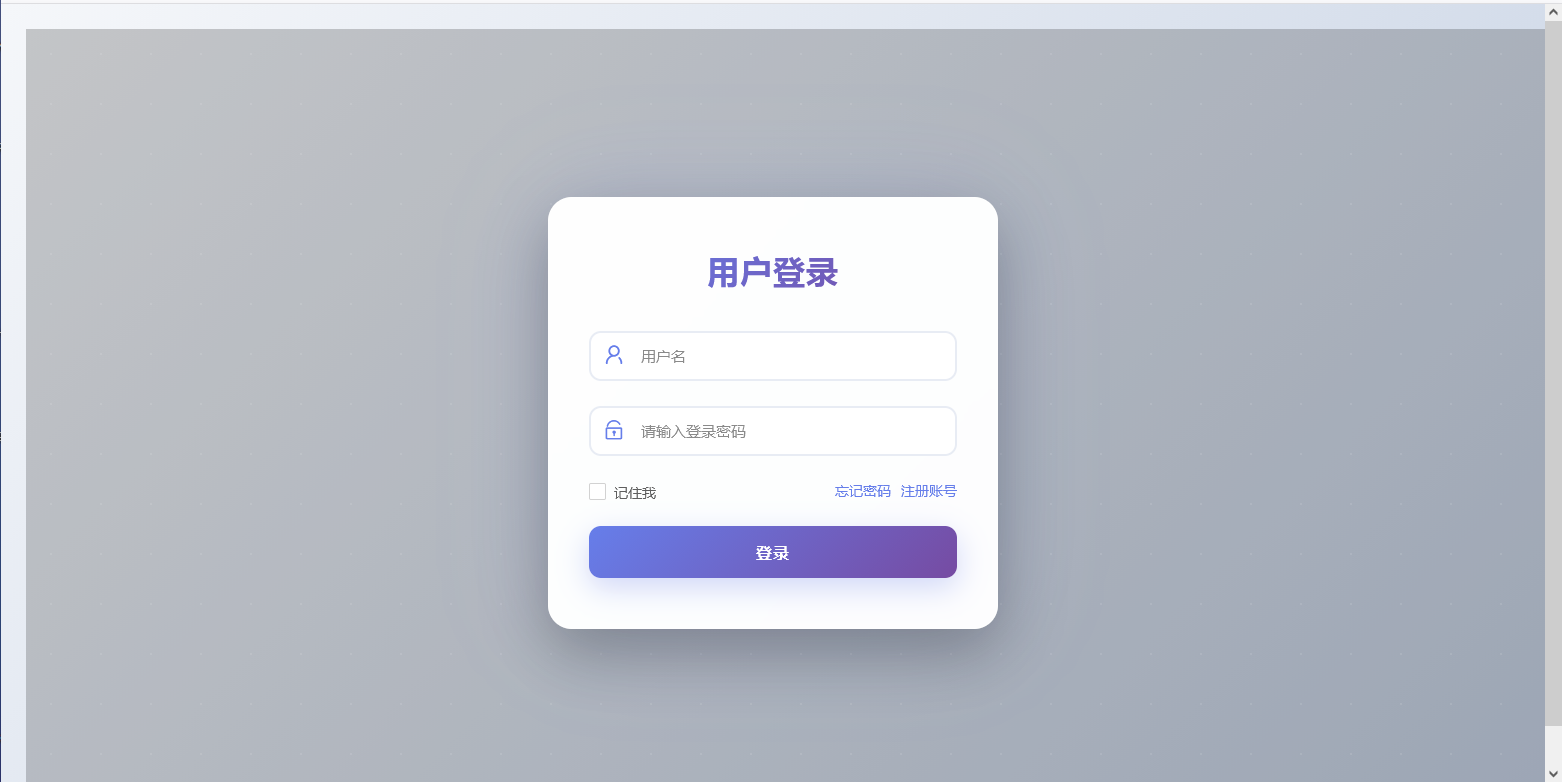
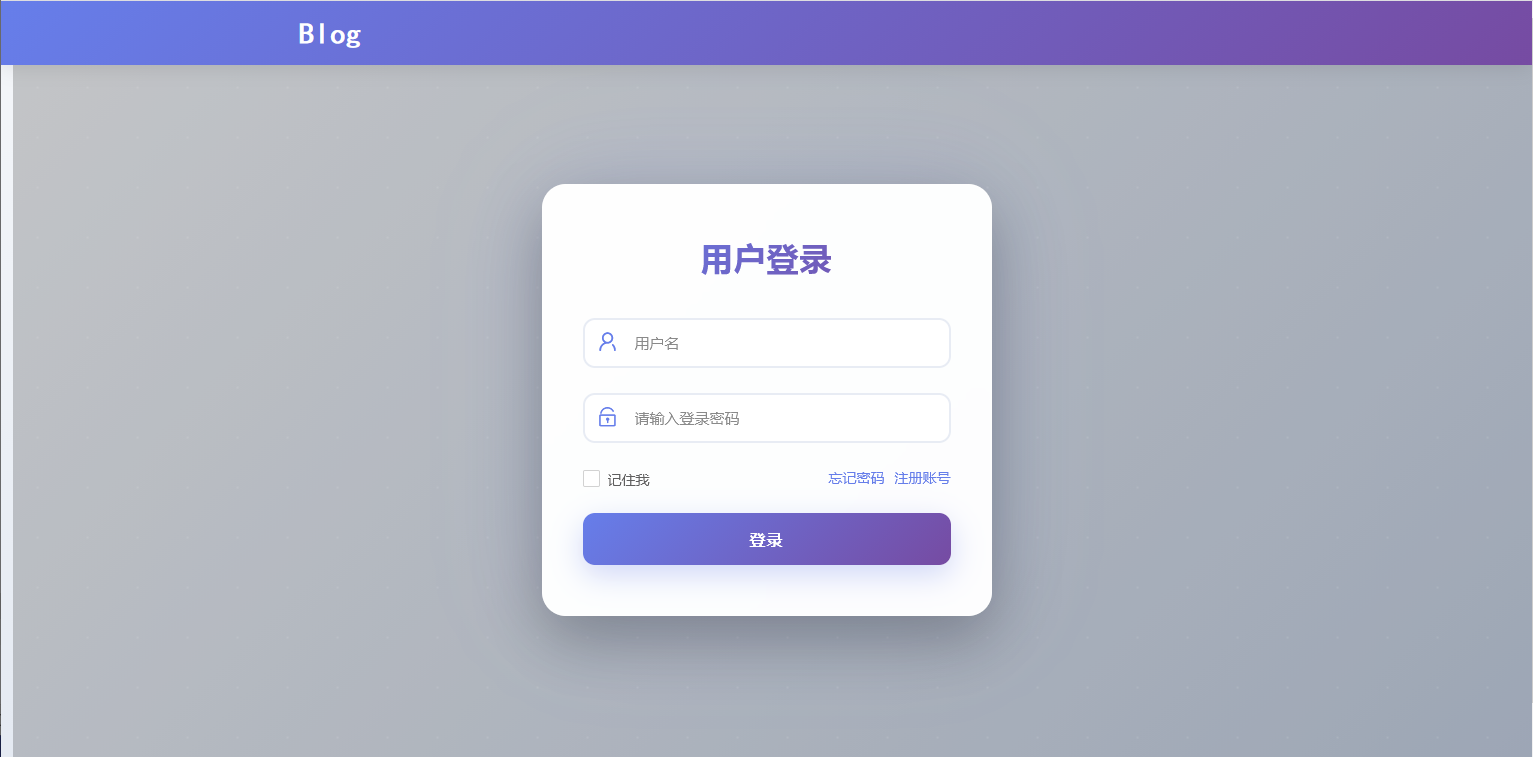
u

diff --git a/views/forget.html b/views/forget.html
@@ -15,11 +15,16 @@
 	<link rel="stylesheet" href="{{baseUrl | safe}}public/plug/layui/css/layui.css">
 	<link rel="stylesheet" href="{{baseUrl | safe}}public/css/layer-theme.css">
 	<link rel="stylesheet" href="{{baseUrl | safe}}public/css/login.css">
+	<link href="{{baseUrl | safe}}public/css/global.css" rel="stylesheet" />
 	<script type="text/javascript" src="{{baseUrl | safe}}public/plug/layui/layui.js"></script>
 </head>
 
 <body>
-
+    <nav class="blog-nav layui-header">
+    	<div class="blog-container">
+    		<a class="blog-logo" href="{{baseUrl | safe}}home/1">Blog</a>
+    	</div>
+    </nav>
 	<div class="login-wrapper layui-anim layui-anim-scale">
 		<form class="layui-form">
 			<h2>重置密码</h2>

diff --git a/views/reg.html b/views/reg.html
@@ -15,11 +15,16 @@
 	<link rel="stylesheet" href="{{baseUrl | safe}}public/plug/layui/css/layui.css">
 	<link rel="stylesheet" href="{{baseUrl | safe}}public/css/layer-theme.css">
 	<link rel="stylesheet" href="{{baseUrl | safe}}public/css/login.css">
+	<link href="{{baseUrl | safe}}public/css/global.css" rel="stylesheet" />
 	<script type="text/javascript" src="{{baseUrl | safe}}public/plug/layui/layui.js"></script>
 </head>
 
 <body>
-
+    <nav class="blog-nav layui-header">
+    	<div class="blog-container">
+    		<a class="blog-logo" href="{{baseUrl | safe}}home/1">Blog</a>
+    	</div>
+    </nav>
 	<div class="login-wrapper layui-anim layui-anim-scale">
 		<form class="layui-form">
 			<h2>用户注册</h2>

diff --git a/views/login.html b/views/login.html
@@ -19,7 +19,11 @@
 </head>
 
 <body>
-
+    <nav class="blog-nav layui-header">
+    	<div class="blog-container">
+    		<a class="blog-logo" href="{{baseUrl | safe}}home/1">Blog</a>
+    	</div>
+    </nav>
 	<div class="login-wrapper layui-anim layui-anim-scale">
 		<form class="layui-form">
 			<!--        <h2>FS 文件管理用户登录</h2>-->
@@ -44,7 +48,6 @@
 			</div>
 		</form>
 	</div>
-
 	<script type="text/javascript" src="{{baseUrl | safe}}public/js/clipboard.min.js"></script>
 	<script type="text/javascript" src="{{baseUrl | safe}}public/js/login.js"></script>
 </body>

diff --git a/public/public/css/login.css b/public/public/css/login.css
@@ -37,6 +37,7 @@ body::before {
     width: 90%;
     padding: 0;
     margin: 0 auto;
+    margin-top:64px;
     position: relative;
     box-sizing: border-box;
     z-index: 2;
